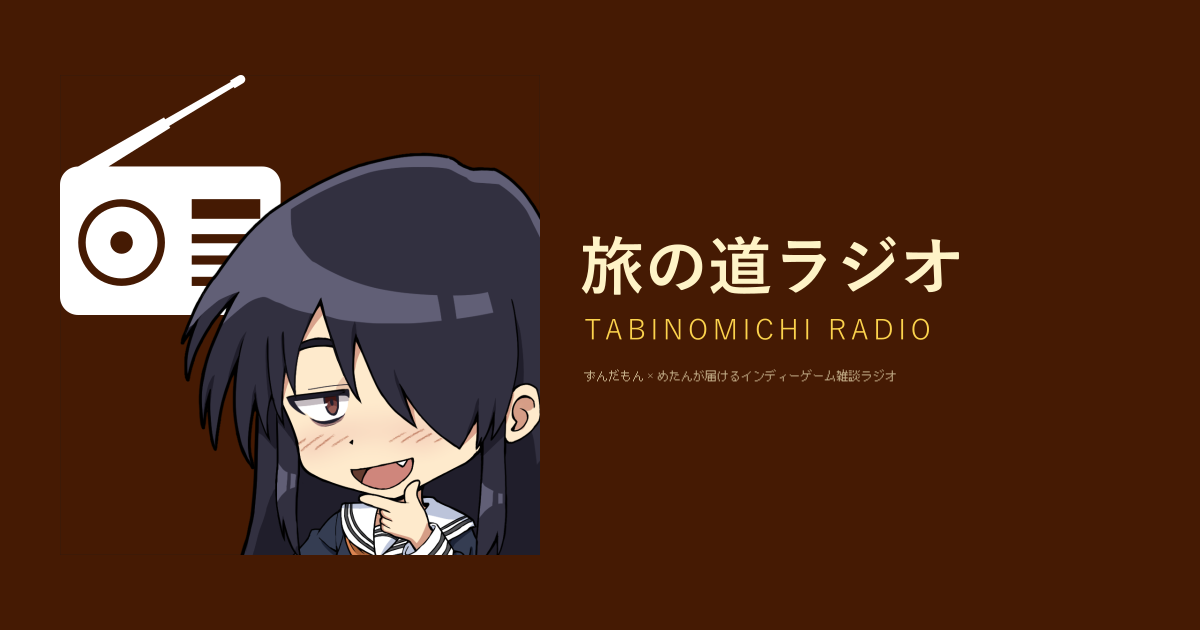
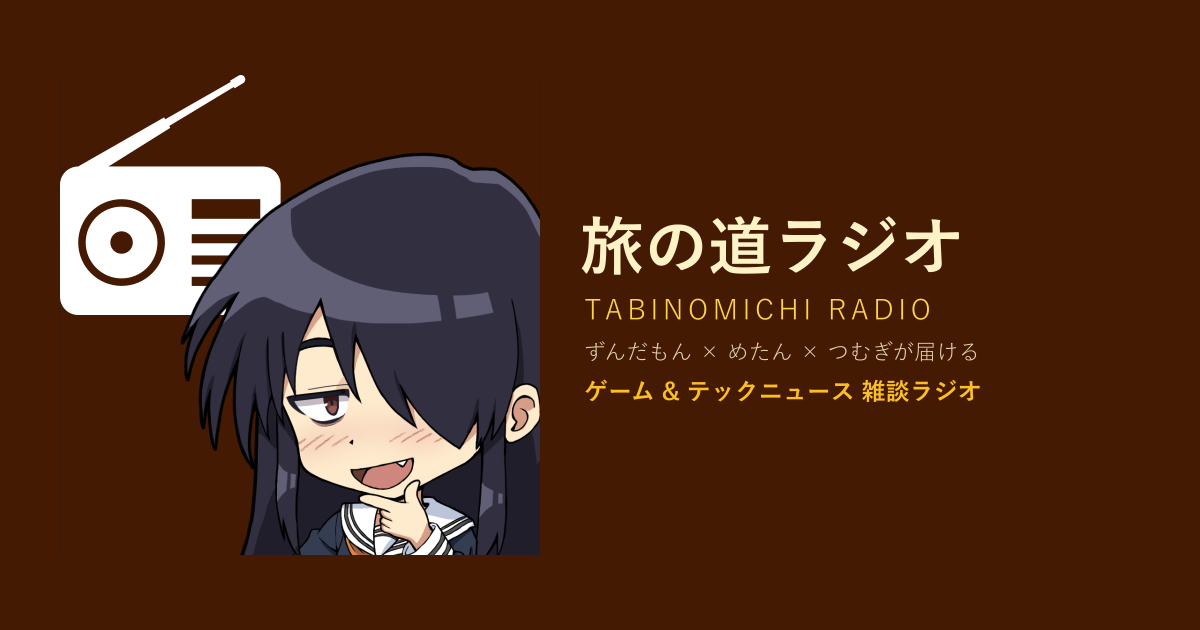
Auto: radio update 2026-05-17 17:40

Changed region(s): [[0.4625, 0.3317, 0.8325, 0.6333]]

diff --git a/scripts/generate-og.js b/scripts/generate-og.js
@@ -16,23 +16,29 @@ const OUT = path.join(__dirname, '..', 'public', 'og-image.png')
   const icon = await sharp(fs.readFileSync(SRC_ICON)).resize(480, 480).png().toBuffer()
 
   // タイトルテキスト SVG (Tabinomichi Radio)
+  // 2026-05-17 更新: つむぎ加入 + テックニュース対応を反映
   const titleSvg = Buffer.from(`
-    <svg xmlns="http://www.w3.org/2000/svg" width="640" height="180" viewBox="0 0 640 180">
+    <svg xmlns="http://www.w3.org/2000/svg" width="640" height="220" viewBox="0 0 640 220">
       <style>
         .t1 { font: bold 64px 'Yu Gothic', 'Hiragino Sans', sans-serif; fill: #fef3c7; }
         .t2 { font: 28px 'Yu Gothic', 'Hiragino Sans', sans-serif; fill: #fcd34d; letter-spacing: 0.15em; }
+        .t3 { font: 22px 'Yu Gothic', 'Hiragino Sans', sans-serif; fill: #fef3c7; opacity: 0.85; }
+        .t4 { font: bold 24px 'Yu Gothic', 'Hiragino Sans', sans-serif; fill: #fbbf24; }
       </style>
       <text x="0" y="70" class="t1">旅の道ラジオ</text>
       <text x="4" y="120" class="t2">TABINOMICHI RADIO</text>
-      <text x="4" y="160" font="22px sans-serif" fill="#fef3c7" opacity="0.7">ずんだもん × めたんが届けるインディーゲーム雑談ラジオ</text>
+      <text x="4" y="160" class="t3">ずんだもん × めたん × つむぎが届ける</text>
+      <text x="4" y="200" class="t4">ゲーム &amp; テックニュース 雑談ラジオ</text>
     </svg>
   `)
 
   await sharp(bg)
     .composite([
       { input: icon, left: 60, top: 75 },
-      { input: titleSvg, left: 580, top: 220 },
+      { input: titleSvg, left: 580, top: 200 },
     ])
+    .flatten({ background: { r: 0x45, g: 0x1a, b: 0x03 } })
+    .removeAlpha()
     .png()
     .toFile(OUT)
 

diff --git a/app/layout.tsx b/app/layout.tsx
@@ -10,7 +10,7 @@ const SITE_URL = 'https://news.tabinomichi.jp'
 export const metadata: Metadata = {
   metadataBase: new URL(SITE_URL),
   title: '旅の道ラジオ — Tabinomichi Radio',
-  description: 'ずんだもん×めたんが届けるインディーゲームの深夜雑談ラジオ。',
+  description: 'ずんだもん × めたん × つむぎが届ける、ゲーム & テックニュース雑談ラジオ。',
   manifest: '/manifest.json',
   alternates: {
     types: {
@@ -22,14 +22,14 @@ export const metadata: Metadata = {
     url: SITE_URL,
     siteName: '旅の道ラジオ',
     title: '旅の道ラジオ — Tabinomichi Radio',
-    description: 'ずんだもん×めたんが届けるインディーゲームの深夜雑談ラジオ。',
+    description: 'ずんだもん × めたん × つむぎが届ける、ゲーム & テックニュース雑談ラジオ。',
     images: [{ url: '/og-image.png', width: 1200, height: 630, alt: '旅の道ラジオ' }],
     locale: 'ja_JP',
   },
   twitter: {
     card: 'summary_large_image',
     title: '旅の道ラジオ — Tabinomichi Radio',
-    description: 'ずんだもん×めたんが届けるインディーゲームの深夜雑談ラジオ。',
+    description: 'ずんだもん × めたん × つむぎが届ける、ゲーム & テックニュース雑談ラジオ。',
     images: ['/og-image.png'],
   },
   appleWebApp: {

diff --git a/app/radio/[episode_id]/page.tsx b/app/radio/[episode_id]/page.tsx
@@ -49,7 +49,7 @@ export async function generateMetadata(
   const rawDesc = ep.program_description || ''
   const description = rawDesc.length > 0
     ? (rawDesc.length > 200 ? rawDesc.slice(0, 200) + '…' : rawDesc)
-    : 'ずんだもん×めたんが届けるインディーゲームの深夜雑談ラジオ。'
+    : 'ずんだもん × めたん × つむぎが届ける、ゲーム & テックニュース雑談ラジオ。'
   // 1200x630 landscape OG (build_og_image.py) を最優先。Steam capsule 等の
   // 縦長ソースを直接 OG にすると X/Twitter で小さく潰れるため、export 時に
   // 横長カード化したものを使う。fallback は従来通り featured_game の rel。
